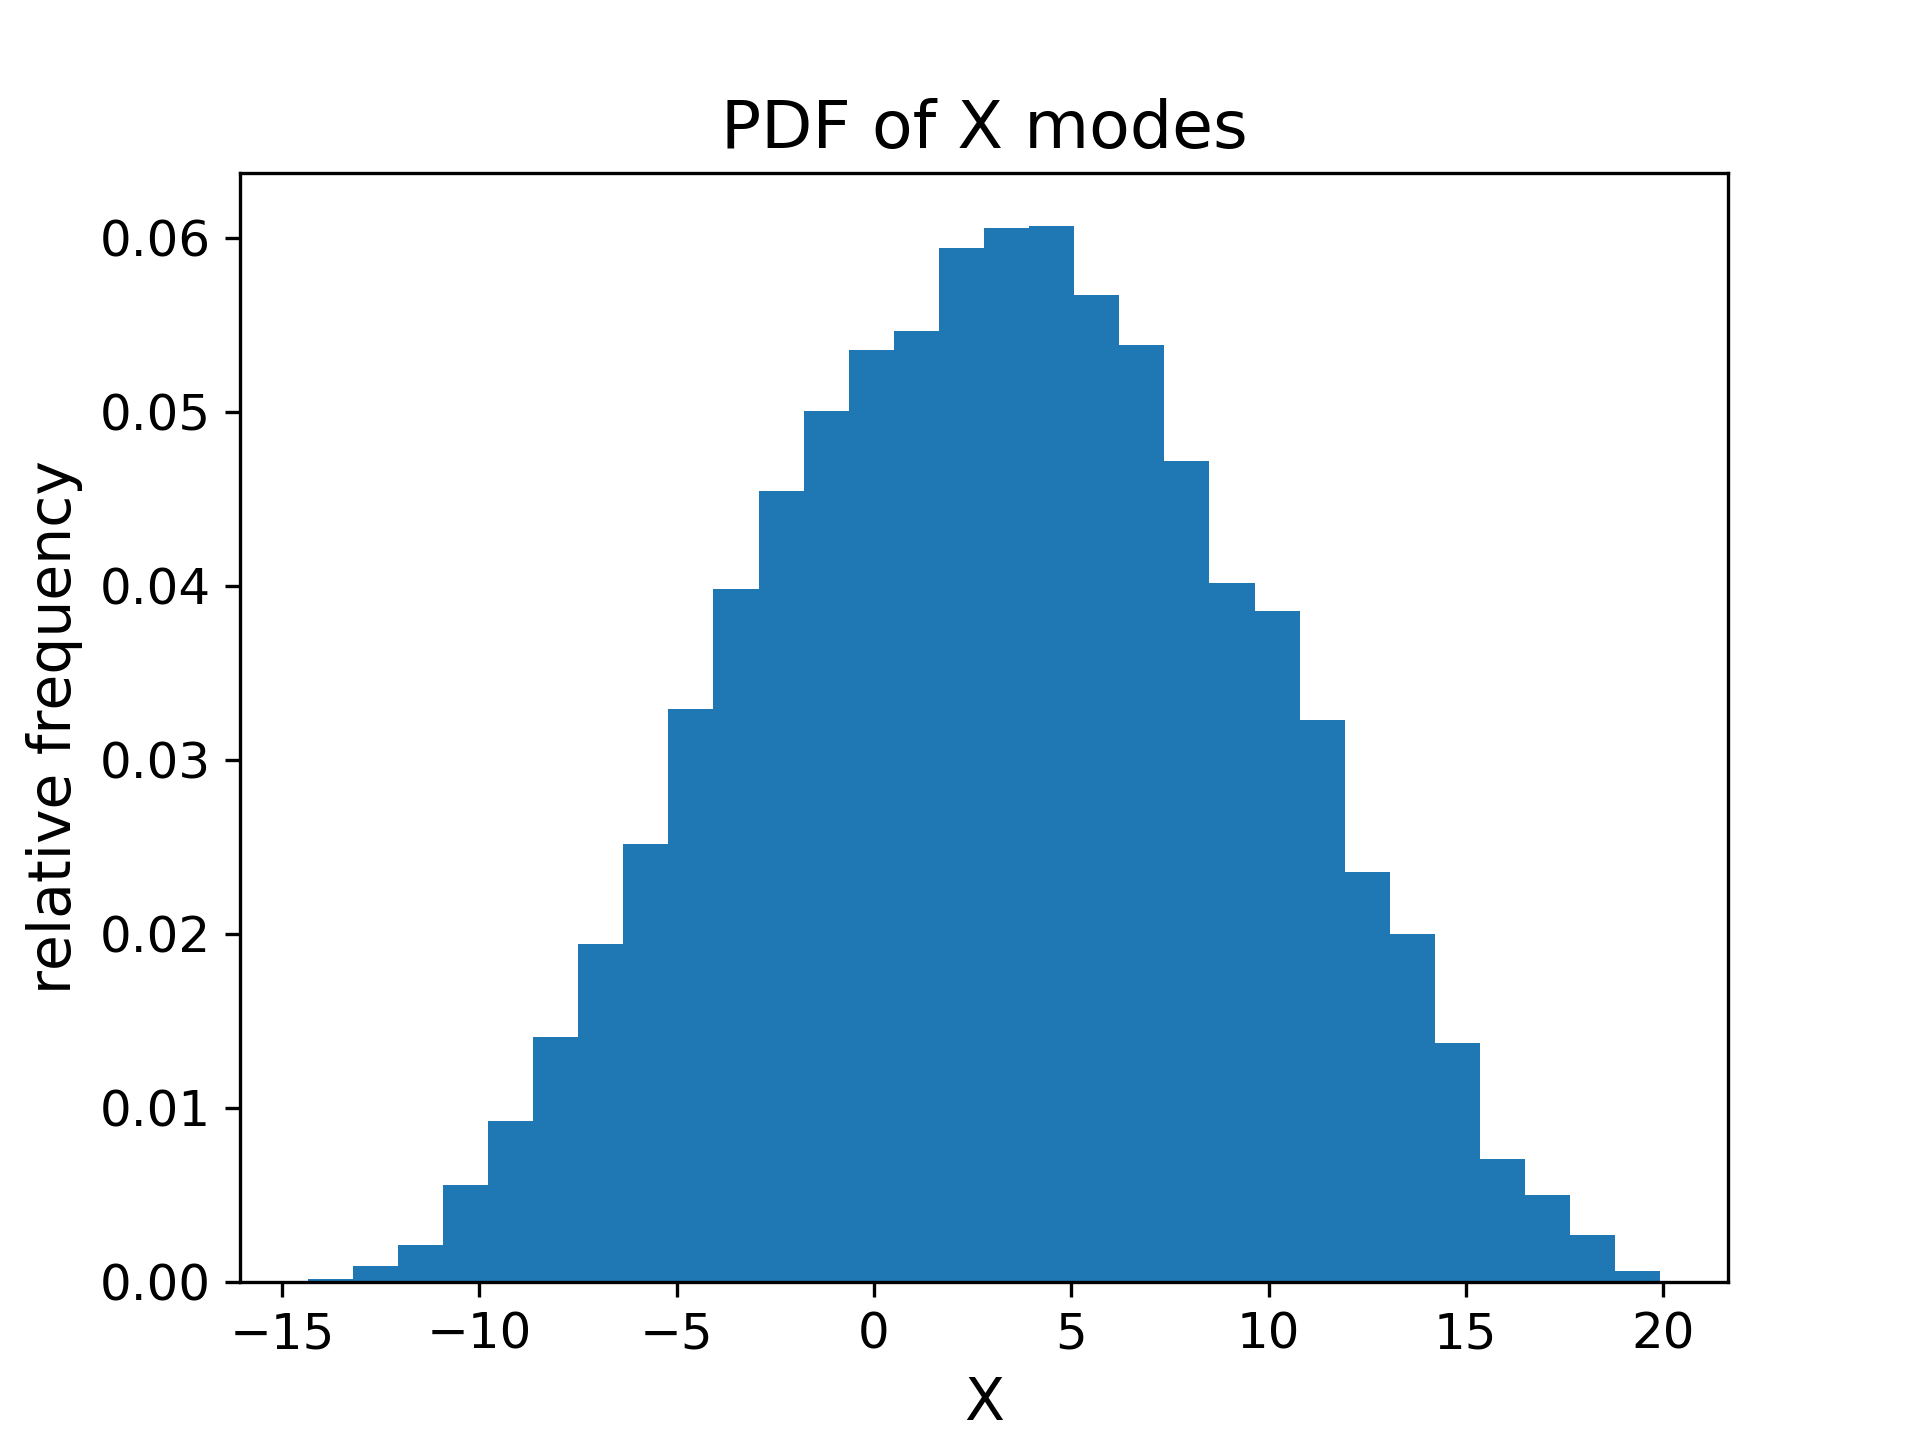
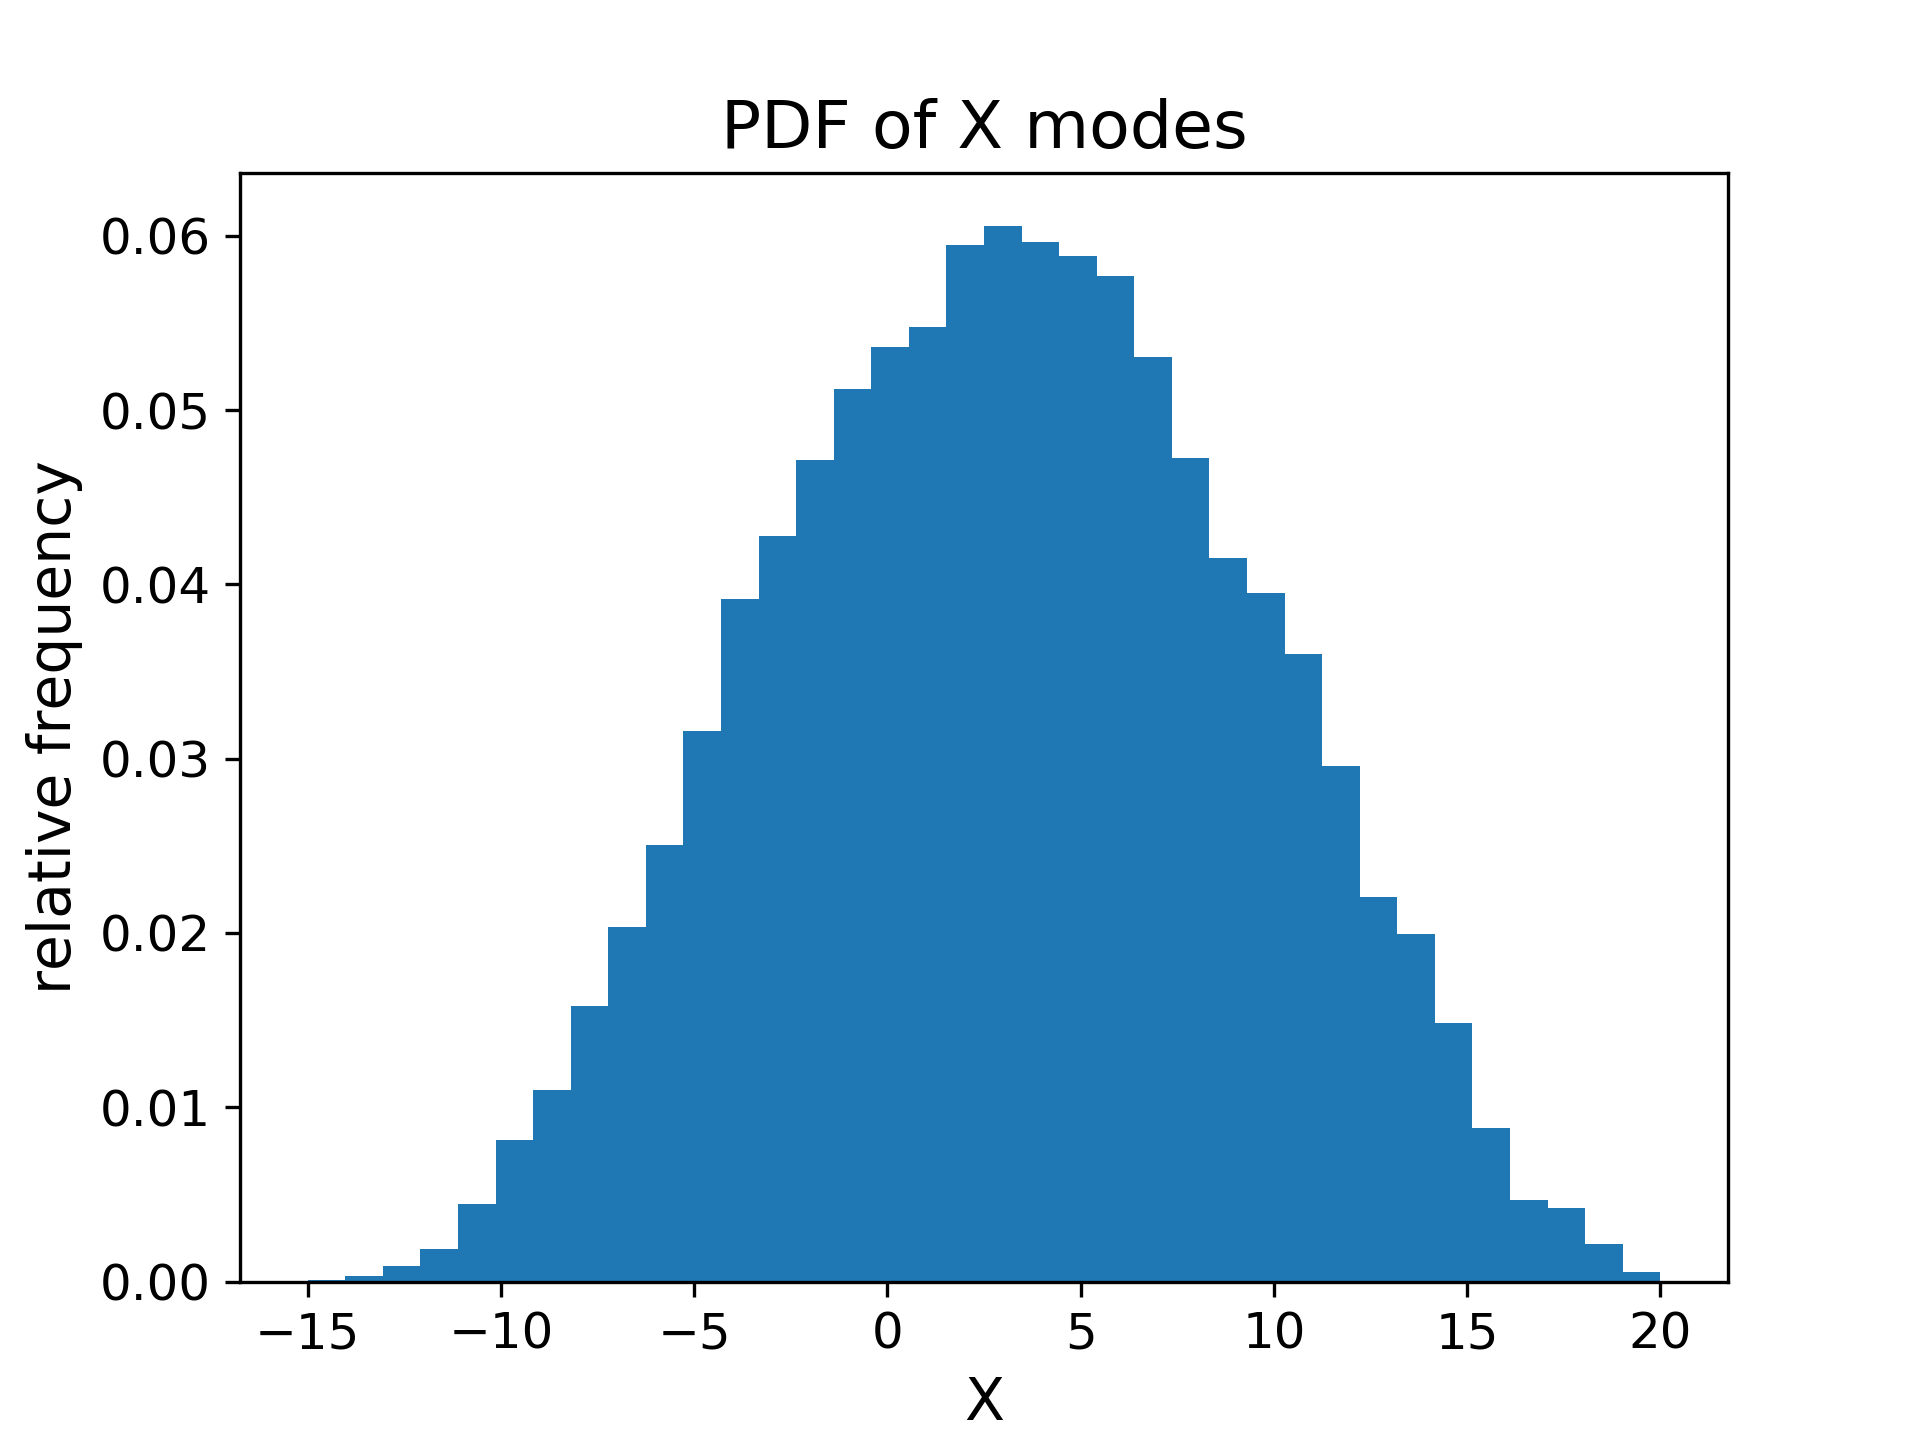
Plots für RRK überarbeitet

diff --git a/lorenz_plot_flo.py b/lorenz_plot_flo.py
@@ -19,11 +19,11 @@ except:
 
 ## Choose which Plots
 Model = False
-Histogram = False
-Histogram_Diff = False
+Histogram = True
+Histogram_Diff = True
 Hovmoeller = False
 Y_Forcing = False
-Temp_Corr = True
+Temp_Corr = False
 Spat_Corr = False
 Energy_cyle = False
 
@@ -81,7 +81,7 @@ if Model:
 if Histogram:    
     ## plot distribution of X modes
     plt.figure()
-    plt.hist(X[:,:K].flatten(),bins=30,density=1)
+    plt.hist(X[:,:K].flatten(),bins=36,density=1,range=(-15,20))
     plt.xticks(fontsize=12)
     plt.yticks(fontsize=12)
     plt.xlabel('X',fontsize=14)
@@ -92,7 +92,7 @@ if Histogram:
     #plt.close(fig)
     
     plt.figure()
-    plt.hist(Xr[:,:K].flatten(),bins=30,density=1)
+    plt.hist(Xr[:,:K].flatten(),bins=36,density=1,range=(-15,20))
     plt.xticks(fontsize=12)
     plt.yticks(fontsize=12)
     plt.xlabel('X',fontsize=14)
@@ -118,14 +118,15 @@ if Histogram_Diff:
     plt.figure()
     #print(Xr[:,:K].shape)
     #print(X[:,:K].shape)
-    hist=plt.hist((X[:,:K].flatten()),bins=30)
-    histr=plt.hist((Xr[:,:K].flatten()),bins=30)
+    hist=plt.hist((X[:,:K].flatten()),bins=36,range=(-15,20))
+    histr=plt.hist((Xr[:,:K].flatten()),bins=36,range=(-15,20))
     plt.close()
     plt.figure()
     hist_diff=histr[0]-hist[0]
-    plt.bar(np.linspace(-15,15,30),hist_diff/np.sum(hist[0]))
+    plt.bar(np.linspace(-15,20,36),hist_diff/np.sum(hist[0]),width=1)
     plt.xticks(fontsize=12)
     plt.yticks(fontsize=12)
+    plt.xlim(-15,20)
     plt.xlabel('X',fontsize=14)
     plt.ylabel('difference in relative frequency',fontsize=14)
     plt.title('Difference to X modes in deterministic scheme',fontsize=16)
